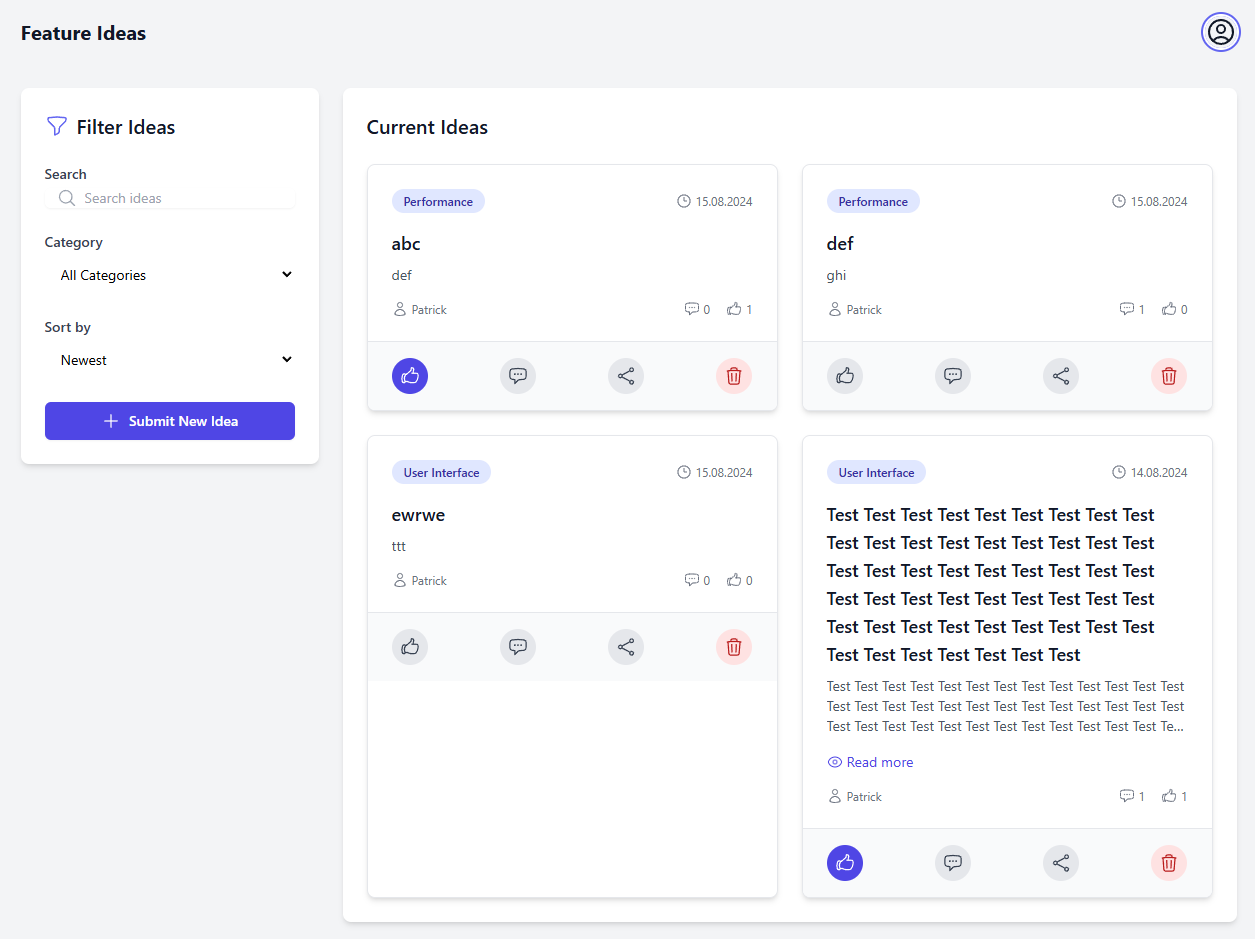
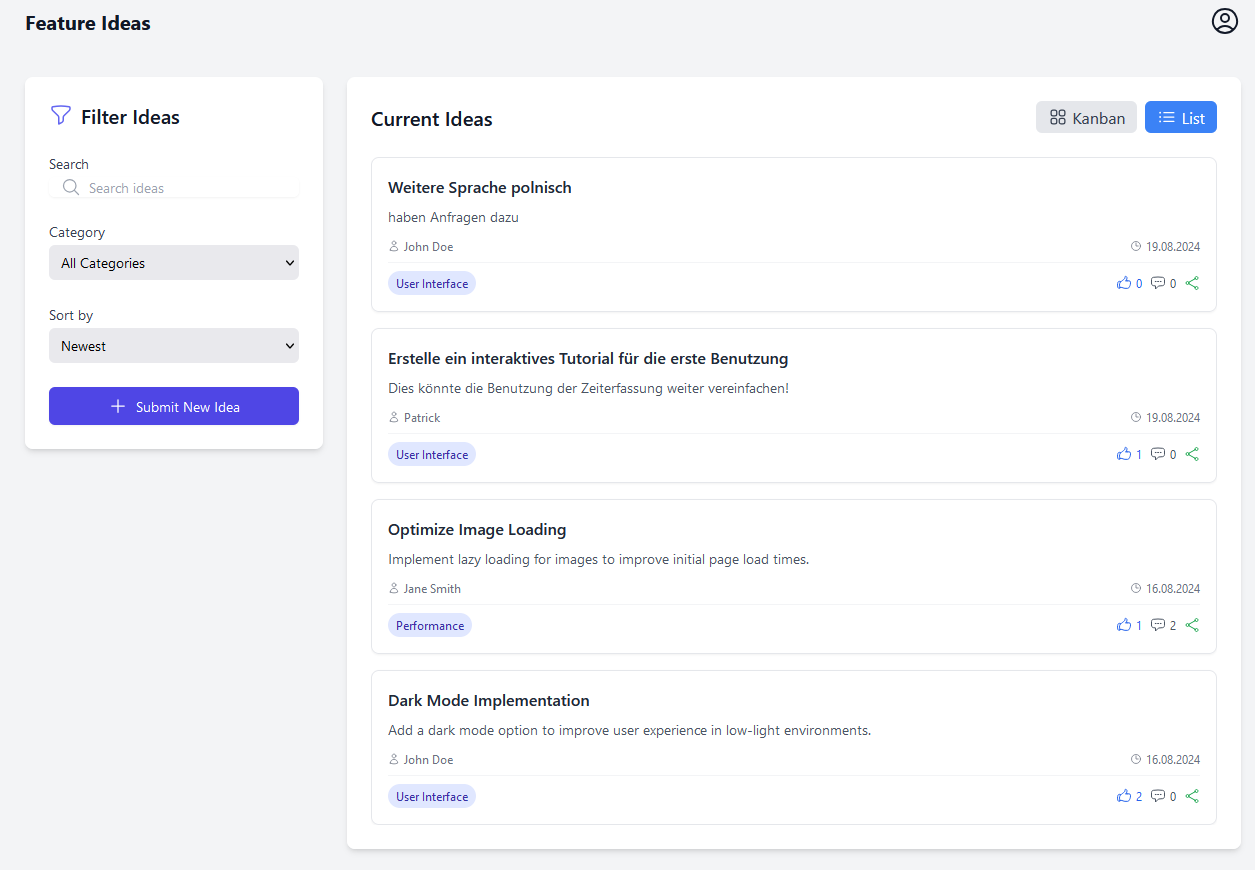
update readme

diff --git a/README.md b/README.md
@@ -9,10 +9,14 @@ A dynamic web application for submitting, voting on, and managing feature ideas.
 - Voting system
 - Idea filtering and sorting
 - Responsive design
+- Kanban board or List view
+- Drag and Drop in Kanban board to change status
 
 # Screenshots
 ![Main Page](/public/mainInterface.png)
 ![Admin Dashboard](/public/admindashboard.png)
+![Kanban](/public/kanban.png)
+
 
 ## 🛠 Tech Stack
 
